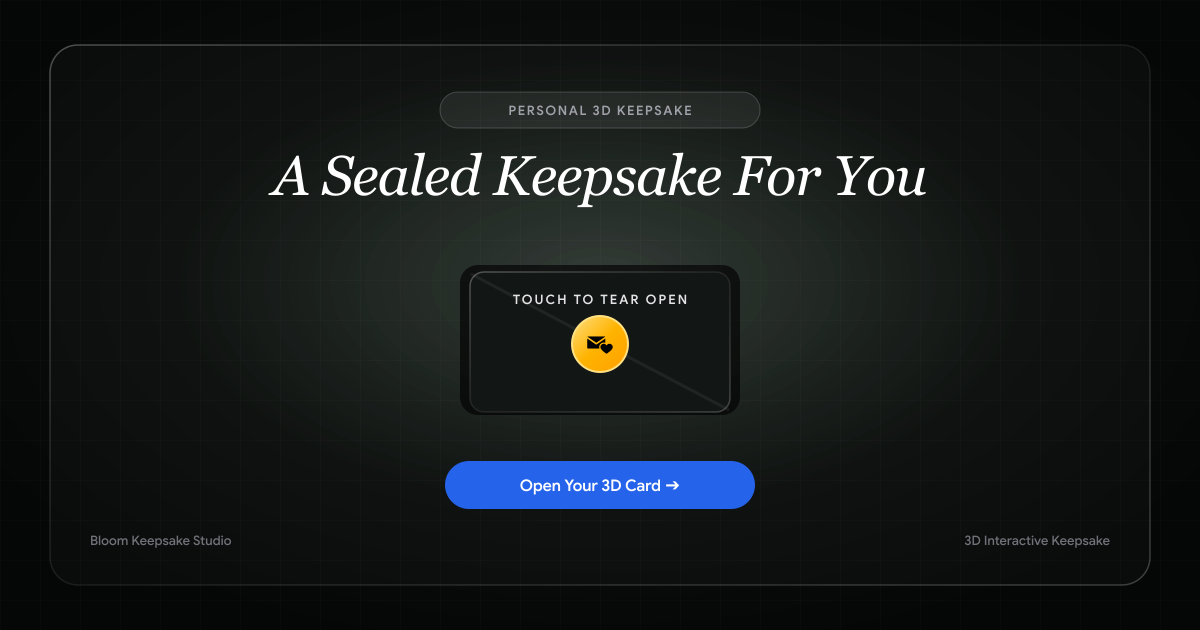
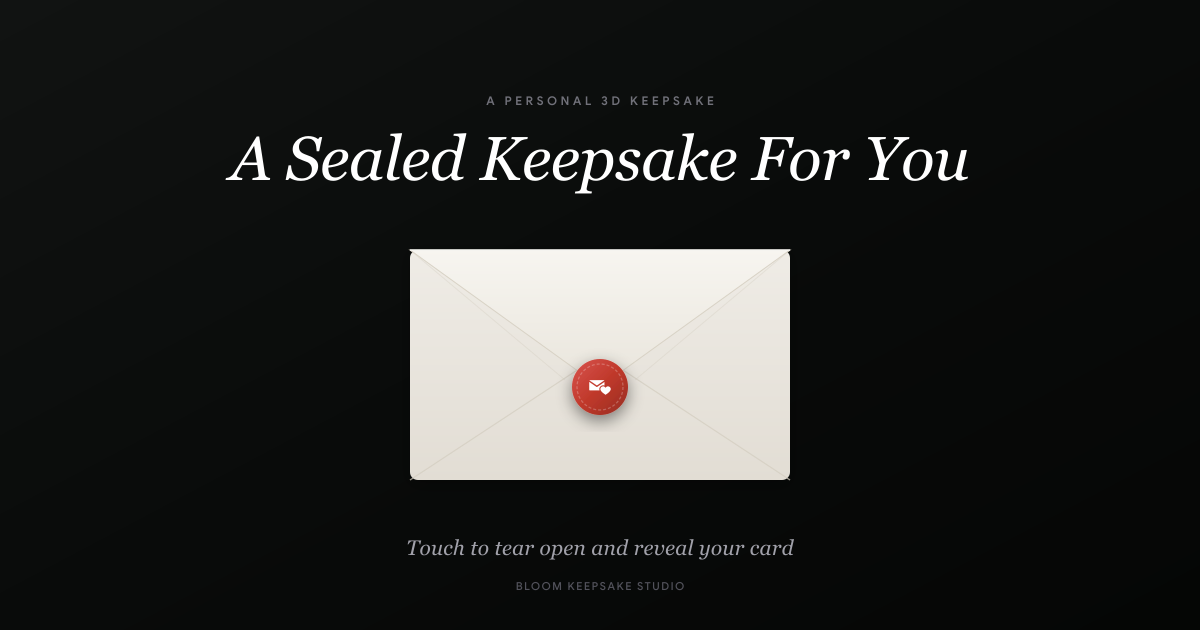
refactor: elegant editorial og preview, shift mobile vertical switcher outside card, and fit compact copy toast

diff --git a/src/components/ui/AppleToast.jsx b/src/components/ui/AppleToast.jsx
@@ -47,18 +47,18 @@ export default function AppleToast() {
             animate={{ opacity: 1, y: 0, scale: 1, filter: 'blur(0px)' }}
             exit={{ opacity: 0, y: -16, scale: 0.94, filter: 'blur(3px)' }}
             transition={{ type: "spring", stiffness: 450, damping: 30, mass: 0.8 }}
-            className="pointer-events-auto flex items-center gap-2.5 h-[42px] px-4 rounded-full bg-[#121413]/92 backdrop-blur-2xl border border-white/18 text-white shadow-[0_12px_36px_rgba(0,0,0,0.65)] select-none font-sans"
+            className="pointer-events-auto flex items-center gap-2 h-[38px] sm:h-[42px] px-3.5 sm:px-4 rounded-full bg-[#121413]/94 backdrop-blur-2xl border border-white/18 text-white shadow-[0_12px_36px_rgba(0,0,0,0.65)] select-none font-sans max-w-[calc(100vw-32px)]"
             style={{
               boxShadow: '0 12px 36px rgba(0,0,0,0.65), 0 0 0 0.5px rgba(255,255,255,0.1)'
             }}
           >
             {/* Emerald glowing checkmark */}
-            <div className="flex items-center justify-center w-[18px] h-[18px] rounded-full bg-[#34C759]/20 text-[#34C759] shrink-0">
-              <CheckCircle size={15} weight="fill" />
+            <div className="flex items-center justify-center w-[17px] h-[17px] rounded-full bg-[#34C759]/20 text-[#34C759] shrink-0">
+              <CheckCircle size={14} weight="fill" />
             </div>
 
             {/* Title */}
-            <span className="text-[13px] font-medium text-white tracking-[-0.01em] whitespace-nowrap">
+            <span className="text-[12.5px] sm:text-[13px] font-medium text-white tracking-[-0.01em] whitespace-nowrap">
               {toast.title}
             </span>
 
@@ -66,7 +66,7 @@ export default function AppleToast() {
             {toast.description && (
               <>
                 <span className="w-1 h-1 rounded-full bg-white/25 shrink-0" />
-                <span className="text-[12px] text-white/60 tracking-tight font-mono whitespace-nowrap">
+                <span className="text-[11.5px] sm:text-[12px] text-white/60 tracking-tight font-sans truncate">
                   {toast.description}
                 </span>
               </>

diff --git a/src/components/cards/CardViewer.jsx b/src/components/cards/CardViewer.jsx
@@ -317,9 +317,9 @@ export default function CardViewer({ onConfirm, onOpenEditTitle, onOpenEditMessa
           }}
         />
 
-        {/* Mobile/Tablet: Left Vertical Switcher overlay (Shifted up on back so it never covers "To:") */}
+        {/* Mobile/Tablet: Left Vertical Switcher positioned cleanly outside the card boundary so it never collides with stickers or card artwork */}
         {state.cardType === 'pokemon' && (
-          <div className={`absolute -translate-y-1/2 left-2.5 z-30 flex lg:hidden shadow-xl transition-all duration-300 ${isFlipped ? 'top-[26%]' : 'top-1/2'}`}>
+          <div className="absolute top-1/2 -translate-y-1/2 -left-[54px] z-30 flex lg:hidden shadow-xl">
             <VerticalCardSelector
               value={state.pokemonSubtype === 'trainer' ? 'trainer' : 'base'}
               onValueChange={(val) => {

diff --git a/api/card-preview.js b/api/card-preview.js
@@ -24,9 +24,9 @@ export default async function handler(req, res) {
     let html = fs.readFileSync(htmlPath, 'utf8');
 
     if (hasCardParam) {
-      const recipientTitle = 'A Sealed Keepsake For You 💌 | Bloom';
-      const recipientDesc = 'Someone crafted a personal 3D keepsake card for you. Tap to tear open the pack and reveal your card.';
-      const recipientImage = `${baseUrl}/og-receiver.png`;
+      const recipientTitle = 'A Sealed Keepsake For You 💌';
+      const recipientDesc = 'A personal 3D keepsake created for you. Tap to open.';
+      const recipientImage = `${baseUrl}/og-receiver.png?v=2`;
 
       // Replace Open Graph title, description, and image
       html = html

diff --git a/src/components/ShareModal.jsx b/src/components/ShareModal.jsx
@@ -284,9 +284,9 @@ export default function ShareModal({ onClose, onOpenRecipientPreview }) {
     setCopied(true);
     setCopyConfettiKey((prev) => prev + 1);
     showToast({
-      title: 'Link copied to clipboard',
-      description: 'Ready to paste in WhatsApp, Instagram, or iMessage.',
-      duration: 3000,
+      title: 'Link copied!',
+      description: 'Ready to send',
+      duration: 2500,
     });
     setTimeout(() => setCopied(false), 2000);
   };
